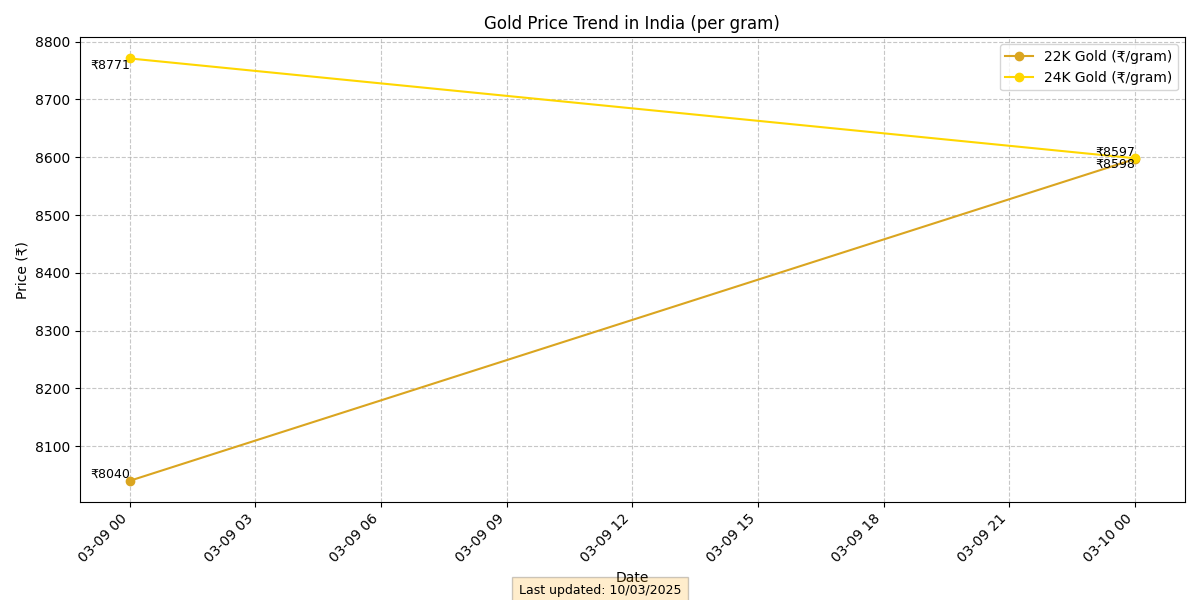
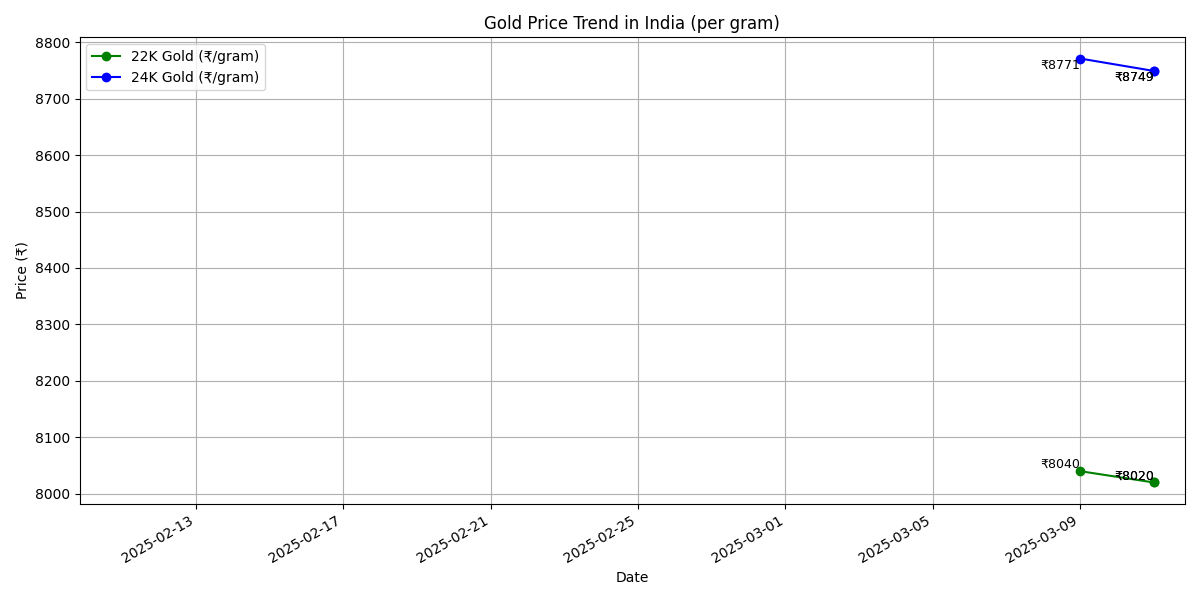
wrong gold values are fixed

diff --git a/src/gold_price_india.py b/src/gold_price_india.py
@@ -1,3 +1,4 @@
+from matplotlib import legend
 import requests
 import pandas as pd
 import matplotlib.pyplot as plt
@@ -23,7 +24,7 @@ def get_gold_price_with_serpapi():
         # Set up the search parameters
         params = {
             "engine": "google",
-            "q": "current gold price per gram in india 24k 22k today",
+            "q": "current gold price per gram in chennai, india 24k 22k today as per goodreturns website",
             "location": "India",
             "google_domain": "google.co.in",
             "gl": "in",
@@ -72,7 +73,7 @@ def get_gold_price_data():
         
         # Create the prompt for getting current gold prices
         prompt = f"""
-        I need today's ({today_date}) gold price in India per gram for both 24K and 22K gold.
+        I need today's ({today_date}) gold price in chennai, India per gram for both 24K and 22K gold.
         Please provide only the numerical values in INR without any symbols or text.
         
         Here is some context from recent search results that might help:
@@ -92,7 +93,7 @@ def get_gold_price_data():
         response = client.chat.completions.create(
             model=os.getenv("AZURE_OPENAI_DEPLOYMENT_NAME"),
             messages=[
-                {"role": "system", "content": "You are a helpful assistant that provides accurate gold price information for India. Always return today's current data in the requested format. Use the context provided to extract the most accurate information."},
+                {"role": "system", "content": "You are a helpful assistant that provides accurate gold price information for chennai in India. Always return today's current data in the requested format. Use the context provided to extract the most accurate information."},
                 {"role": "user", "content": prompt}
             ],
             response_format={"type": "json_object"}
@@ -164,7 +165,7 @@ def save_gold_data_to_csv(data, filename="./data/gold_price_data.csv"):
     except Exception as e:
         print(f"Error saving gold price data: {e}")
 
-def plot_gold_price_trend(filename="./data/gold_price_data.csv", output_file="gold_price_trend.png"):
+def plot_gold_price_trend(filename="./data/gold_price_data.csv", output_file="./src/gold_price_trend.png"):
     """Creates a visualization of gold price trends."""
     try:
         if not os.path.exists(filename):
@@ -175,44 +176,49 @@ def plot_gold_price_trend(filename="./data/gold_price_data.csv", output_file="go
         df = pd.read_csv(filename)
         
         # Convert date to datetime
-        df['date'] = pd.to_datetime(df['date'], format='%d/%m/%Y')
+        df['date'] = pd.to_datetime(df['date'], format='mixed', dayfirst=True)
         
         # Sort by date
         df = df.sort_values('date')
         
         # Filter last 30 days
-        start_date = datetime.now() - timedelta(days=30)
+        start_date = datetime.today() - timedelta(days=30)
         df = df[df['date'] >= start_date]
         
-        # Create plot
-        plt.figure(figsize=(12, 6))
+        # Create date strings for display
+        df['date_str'] = df['date'].dt.strftime('%d/%m/%Y')
         
-        # Plot 22K and 24K gold prices
-        plt.plot(df['date'], df['gold_22k_price'], marker='o', label='22K Gold (₹/gram)', color='#DAA520')
-        plt.plot(df['date'], df['gold_24k_price'], marker='o', label='24K Gold (₹/gram)', color='#FFD700')
+        # Create plot
+        fig, ax = plt.subplots(figsize=(12, 6))
+        
+        
+        # Plot using the categorical x positions
+        ax.plot(df['date'], df['gold_22k_price'], marker='o', label='22K Gold (₹/gram)', color='green' )
+        ax.plot(df['date'], df['gold_24k_price'], marker='o', label='24K Gold (₹/gram)', color='blue')
         
         # Add labels to data points
         for i, row in df.iterrows():
-            plt.text(row['date'], row['gold_22k_price'], f"₹{row['gold_22k_price']:.0f}",
+            idx = df.index.get_loc(i)
+            ax.text(row['date'], row['gold_22k_price'], f"₹{row['gold_22k_price']:.0f}",
                     fontsize=9, ha='right', va='bottom')
-            plt.text(row['date'], row['gold_24k_price'], f"₹{row['gold_24k_price']:.0f}",
+            ax.text(row['date'], row['gold_24k_price'], f"₹{row['gold_24k_price']:.0f}",
                     fontsize=9, ha='right', va='top')
         
         # Customize plot
-        plt.title('Gold Price Trend in India (per gram)')
-        plt.xlabel('Date')
-        plt.ylabel('Price (₹)')
-        plt.grid(True, linestyle='--', alpha=0.7)
-        plt.legend()
+        ax.set_title('Gold Price Trend in India (per gram)')
+        ax.set_xlabel('Date')
+        ax.set_ylabel('Price (₹)')
+        ax.grid(True)
+        ax.legend()
         
-        # Improve date label readability
-        plt.xticks(rotation=45, ha='right')
+       # Improve date label readability
+        plt.xticks(rotation=45, ha='right')  # Rotate and align labels to the right
+        plt.gcf().autofmt_xdate()
         plt.tight_layout()
+        # Adjust x-axis limits
+        ax.set_xlim(start_date, datetime.today())
         
-        # Add today's date to the plot
-        today = datetime.now().strftime('%d/%m/%Y')
-        plt.figtext(0.5, 0.01, f"Last updated: {today}", ha="center", fontsize=9, 
-                   bbox={"facecolor":"orange", "alpha":0.2, "pad":5})
+        plt.tight_layout()
         
         # Save plot
         plt.savefig(output_file)

diff --git a/src/fii_dii_report.py b/src/fii_dii_report.py
@@ -55,7 +55,7 @@ def load_data_from_csv(filename="./data/fii_dii_buy_sell_data.csv"):
         return None
 
 
-def create_visualization(df, filename="fii_dii_trends.png"):
+def create_visualization(df, filename="./src/fii_dii_trends.png"):
     if df is not None:
         try:
             # Convert 'date' column to datetime objects

diff --git a/src/dollar_vs_inr.py b/src/dollar_vs_inr.py
@@ -40,7 +40,7 @@ def create_dataframe(data):
     return df
 
 
-def plot_and_save_usd_to_inr(df, filename="usd_to_inr_exchange_rate.png"):
+def plot_and_save_usd_to_inr(df, filename="./src/usd_to_inr_exchange_rate.png"):
     """Plots and saves the USD to INR exchange rate."""
     if df is None:
         print("No data to plot.")
